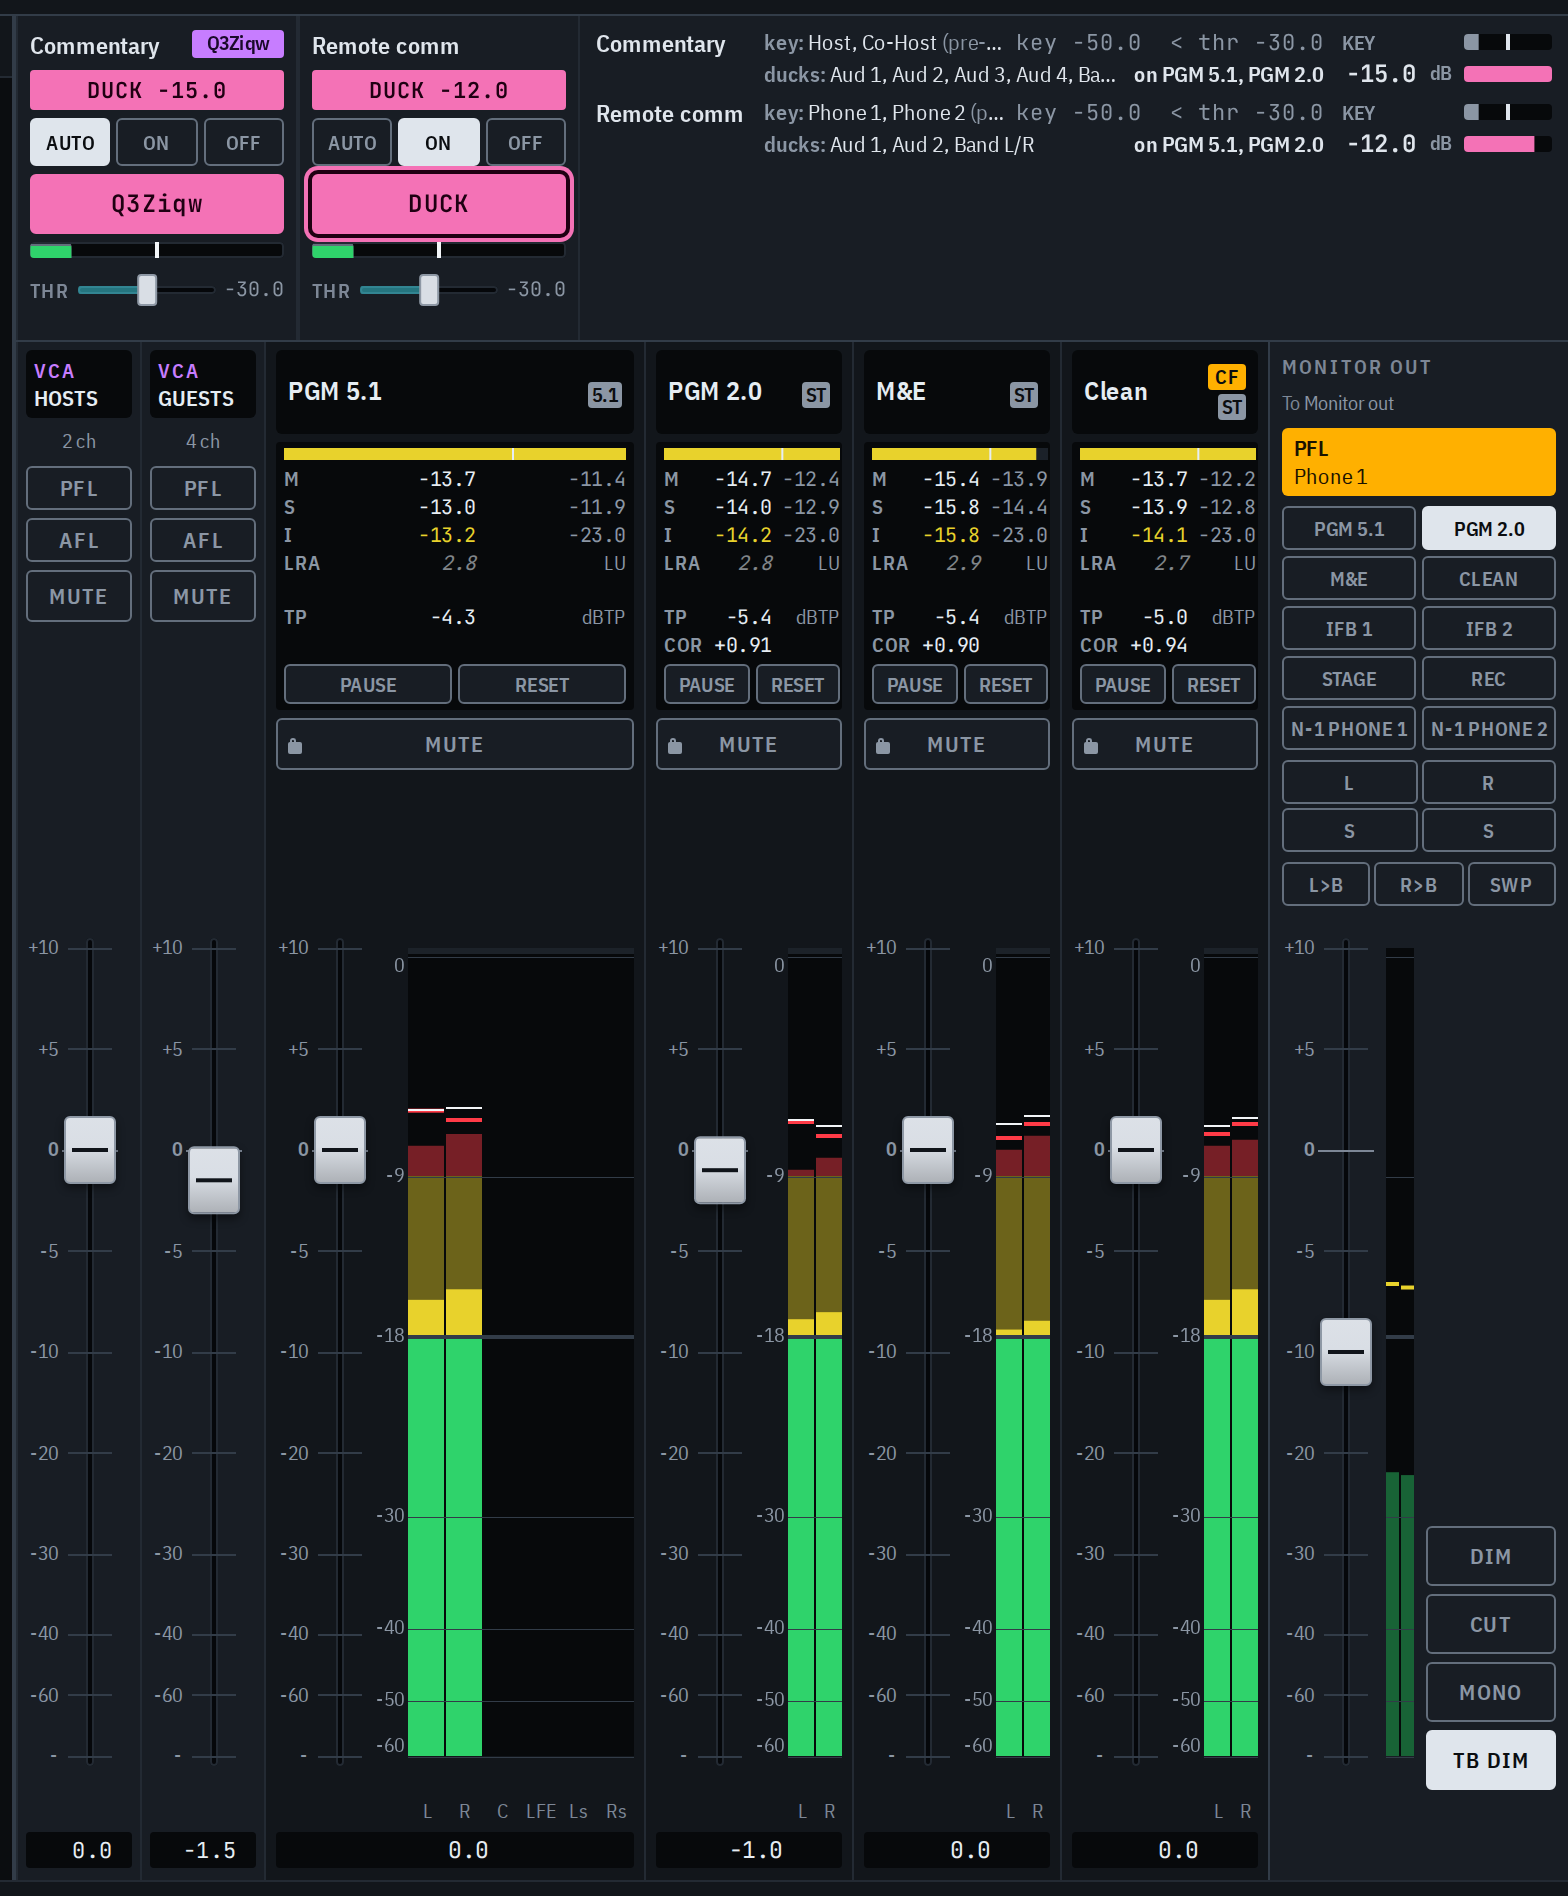
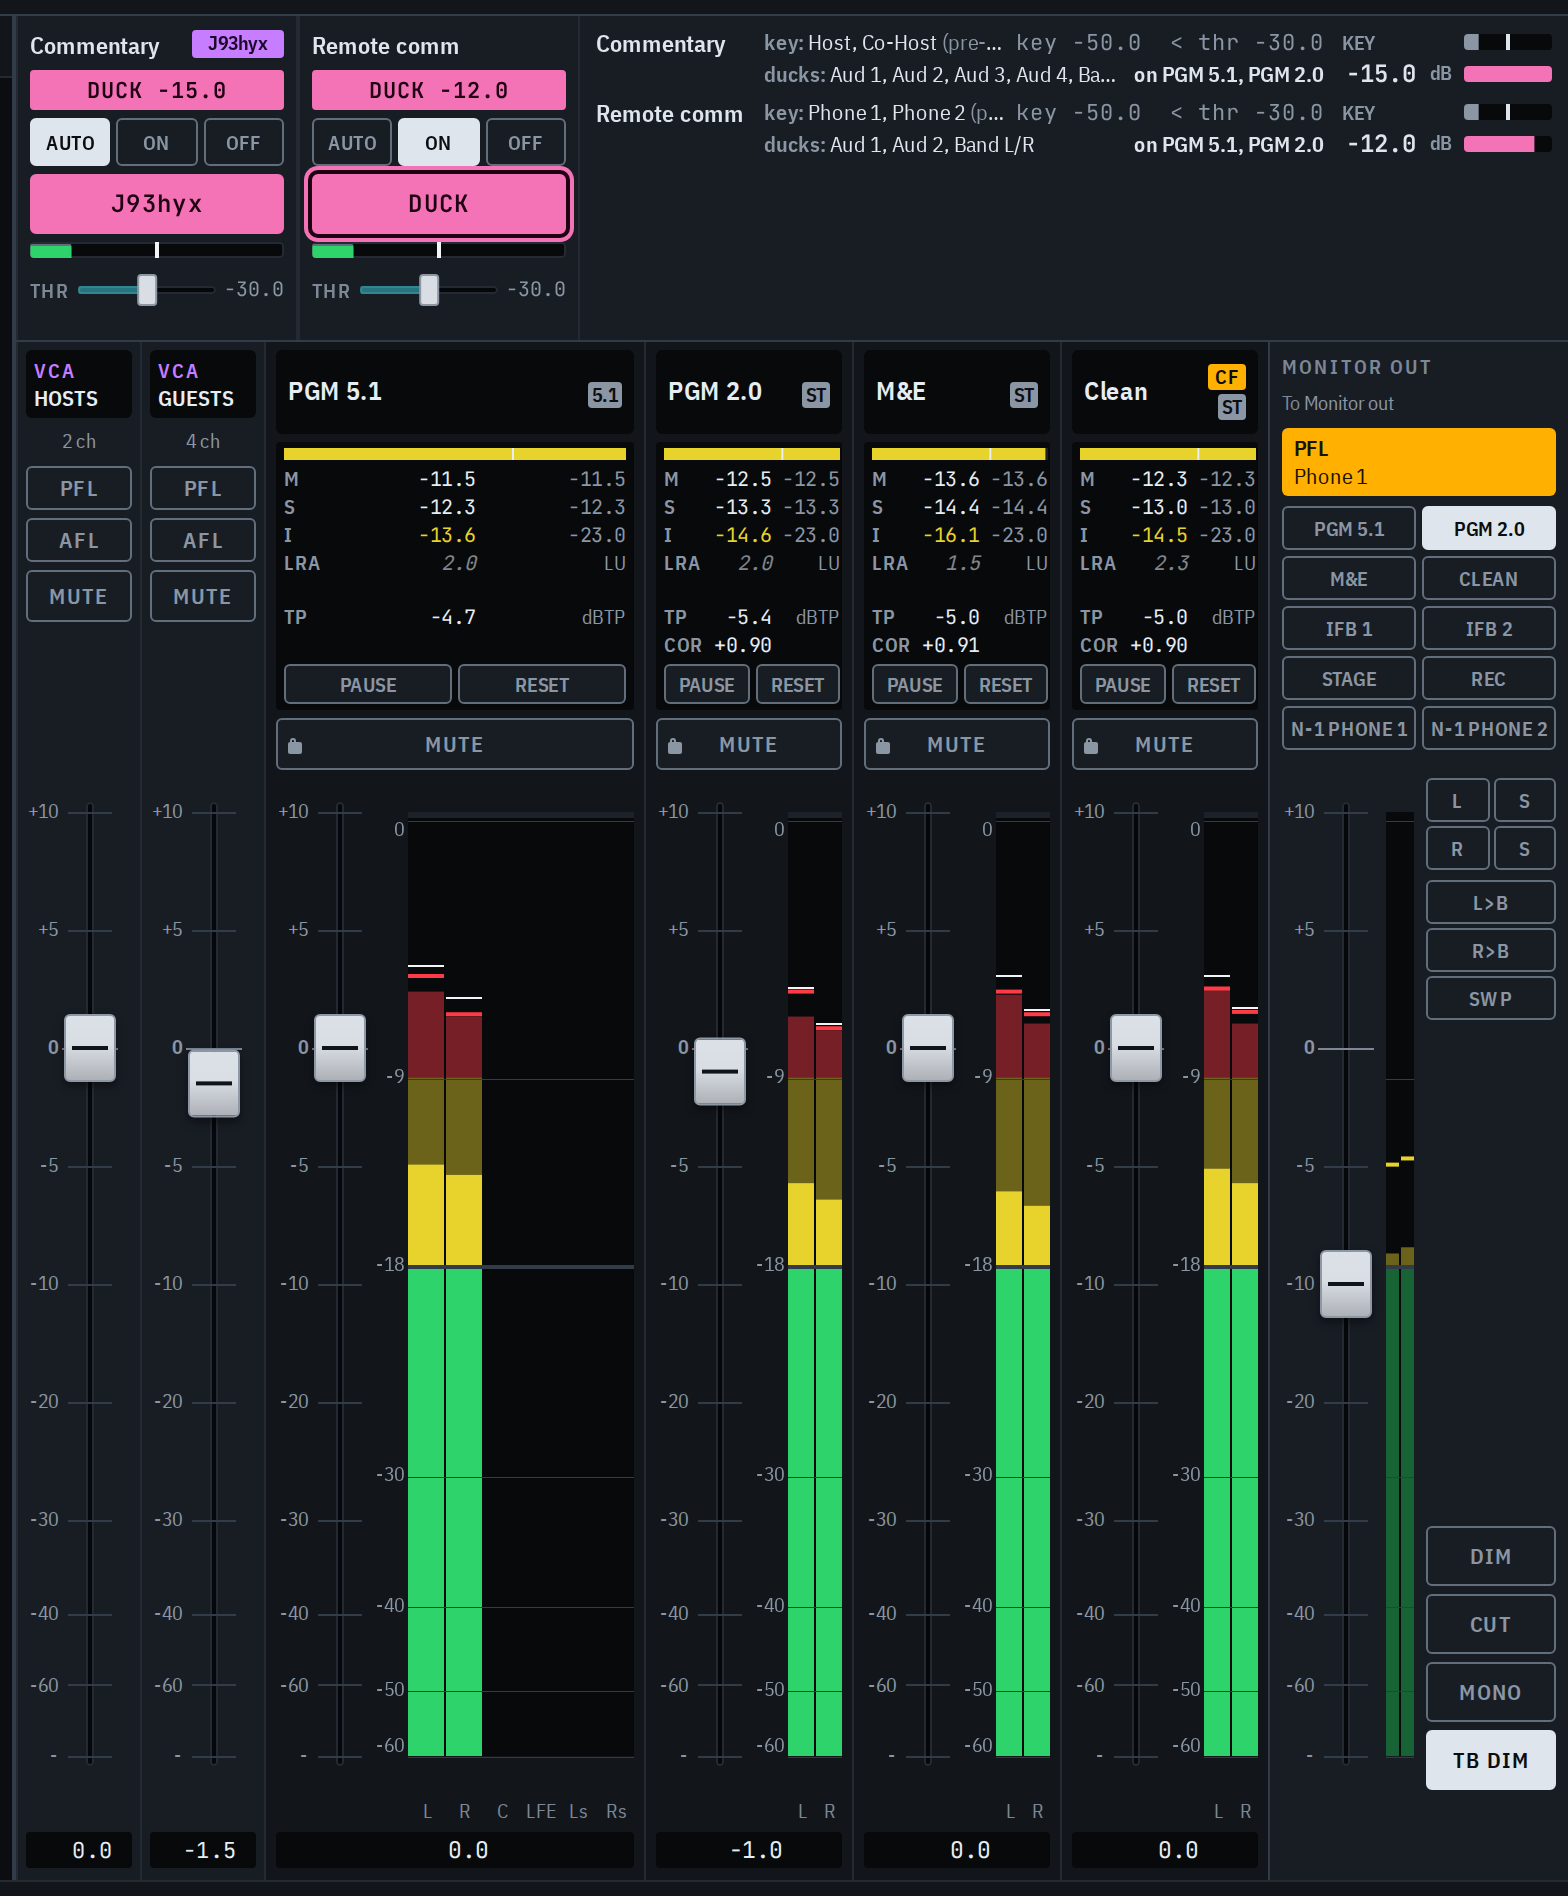
fix(web): keep master fader travel under compact monitor head
With every master's fader starting in one row, the tallest head above
a fader sets where all of them start. The monitor's source, speaker
and image keys stacked above its fader made its head the tallest, so
lining the faders up cost every bus and VCA fader on a 1600x1000
screen about 70 px of travel, down to 438 px.

The speaker mute and solo keys, one row per leg, and the image keys
now sit beside the monitor's fader above DIM, CUT, MONO and TB DIM,
and only the source keys stay above it. The monitor's head is no
taller than a bus's there, and every master fader has 506 px of
travel again. On a touch screen the faders gain 18 px, to 308 px.

diff --git a/web/src/components/MonitorSection.svelte b/web/src/components/MonitorSection.svelte
@@ -95,29 +95,6 @@
         >
       {/each}
     </div>
-    <div class="speakers" role="group" aria-label="Monitor speakers" style:grid-template-columns={`repeat(${legs.length}, minmax(0, 1fr))`}>
-      {#each legs as leg, i (i)}
-        <button {@attach pendingWrite(mixer, pointer('monitor', 'speakerMute', i))} class="key mute" aria-disabled={mixer.locked} aria-pressed={monitor.speakerMute[i]} aria-label={`Mute speaker ${leg}`} title={`Mute speaker ${leg}`} onclick={() => mixer.set(pointer('monitor', 'speakerMute', i), !monitor.speakerMute[i])}>{leg}</button>
-      {/each}
-      {#each legs as leg, i (i)}
-        <button {@attach pendingWrite(mixer, pointer('monitor', 'speakerSolo', i))} class="key solo" aria-disabled={mixer.locked} aria-pressed={monitor.speakerSolo[i]} aria-label={`Solo speaker ${leg}`} title={`Solo speaker ${leg}`} onclick={() => mixer.set(pointer('monitor', 'speakerSolo', i), !monitor.speakerSolo[i])}>S</button>
-      {/each}
-    </div>
-    {#if output?.layout === 'stereo'}
-      <div class="image" role="radiogroup" aria-label="Monitor image">
-        {#each IMAGES as im (im.id)}
-          <button {@attach pendingWrite(mixer, monitorPath('image'))}
-            class="key"
-            role="radio"
-            aria-disabled={mixer.locked}
-            aria-checked={monitor.image === im.id}
-            aria-label={im.label}
-            title={im.label}
-            onclick={() => mixer.set(monitorPath('image'), monitor.image === im.id ? 'normal' : im.id)}>{im.key}</button
-          >
-        {/each}
-      </div>
-    {/if}
   </div>
   <div class="body">
     <div class="f"><Fader path={monitorPath('level')} label="Monitor level" /></div>
@@ -132,25 +109,53 @@
         />
       {/if}
     </div>
-    <div class="flags">
-      <button {@attach pendingWrite(mixer, monitorPath('dim'))} class="key" aria-disabled={mixer.locked} aria-pressed={flag('dim')} onclick={() => mixer.set(monitorPath('dim'), !flag('dim'))}>DIM</button>
-      <button {@attach pendingWrite(mixer, monitorPath('cut'))} class="key mute" aria-disabled={mixer.locked} aria-pressed={flag('cut')} onclick={() => mixer.set(monitorPath('cut'), !flag('cut'))}>CUT</button>
-      <button {@attach pendingWrite(mixer, monitorPath('mono'))} class="key" aria-disabled={mixer.locked} aria-pressed={flag('mono')} onclick={() => mixer.set(monitorPath('mono'), !flag('mono'))}>MONO</button>
-      <button {@attach pendingWrite(mixer, monitorPath('talkbackDim'))}
-        class="key"
-        aria-disabled={mixer.locked}
-        aria-pressed={flag('talkbackDim')}
-        aria-label="Dim the monitor while talkback is active"
-        title="Dim the monitor while talkback is active"
-        onclick={() => mixer.set(monitorPath('talkbackDim'), !flag('talkbackDim'))}>TB DIM</button
-      >
+    <!-- Beside the fader, not above it: above it they would make the
+         monitor's head the tallest of the masters, and every master's
+         fader shorter. -->
+    <div class="side">
+      <div class="speakers" role="group" aria-label="Monitor speakers" style:grid-template-rows={`repeat(${legs.length}, auto)`}>
+        {#each legs as leg, i (i)}
+          <button {@attach pendingWrite(mixer, pointer('monitor', 'speakerMute', i))} class="key mute" aria-disabled={mixer.locked} aria-pressed={monitor.speakerMute[i]} aria-label={`Mute speaker ${leg}`} title={`Mute speaker ${leg}`} onclick={() => mixer.set(pointer('monitor', 'speakerMute', i), !monitor.speakerMute[i])}>{leg}</button>
+        {/each}
+        {#each legs as leg, i (i)}
+          <button {@attach pendingWrite(mixer, pointer('monitor', 'speakerSolo', i))} class="key solo" aria-disabled={mixer.locked} aria-pressed={monitor.speakerSolo[i]} aria-label={`Solo speaker ${leg}`} title={`Solo speaker ${leg}`} onclick={() => mixer.set(pointer('monitor', 'speakerSolo', i), !monitor.speakerSolo[i])}>S</button>
+        {/each}
+      </div>
+      {#if output?.layout === 'stereo'}
+        <div class="image" role="radiogroup" aria-label="Monitor image">
+          {#each IMAGES as im (im.id)}
+            <button {@attach pendingWrite(mixer, monitorPath('image'))}
+              class="key"
+              role="radio"
+              aria-disabled={mixer.locked}
+              aria-checked={monitor.image === im.id}
+              aria-label={im.label}
+              title={im.label}
+              onclick={() => mixer.set(monitorPath('image'), monitor.image === im.id ? 'normal' : im.id)}>{im.key}</button
+            >
+          {/each}
+        </div>
+      {/if}
+      <div class="flags">
+        <button {@attach pendingWrite(mixer, monitorPath('dim'))} class="key" aria-disabled={mixer.locked} aria-pressed={flag('dim')} onclick={() => mixer.set(monitorPath('dim'), !flag('dim'))}>DIM</button>
+        <button {@attach pendingWrite(mixer, monitorPath('cut'))} class="key mute" aria-disabled={mixer.locked} aria-pressed={flag('cut')} onclick={() => mixer.set(monitorPath('cut'), !flag('cut'))}>CUT</button>
+        <button {@attach pendingWrite(mixer, monitorPath('mono'))} class="key" aria-disabled={mixer.locked} aria-pressed={flag('mono')} onclick={() => mixer.set(monitorPath('mono'), !flag('mono'))}>MONO</button>
+        <button {@attach pendingWrite(mixer, monitorPath('talkbackDim'))}
+          class="key"
+          aria-disabled={mixer.locked}
+          aria-pressed={flag('talkbackDim')}
+          aria-label="Dim the monitor while talkback is active"
+          title="Dim the monitor while talkback is active"
+          onclick={() => mixer.set(monitorPath('talkbackDim'), !flag('talkbackDim'))}>TB DIM</button
+        >
+      </div>
     </div>
   </div>
 </section>
 
 <style>
-  /* Rows: the source, speaker and image keys above the fader, and the
-     fader with its meter and flags. */
+  /* Rows: the source keys above the fader, and the fader with its meter
+     and, beside them, the speaker, image and flag keys. */
   .monitor {
     width: 150px;
     flex: none;
@@ -219,13 +224,21 @@
     overflow: hidden;
     text-overflow: ellipsis;
   }
+  .side {
+    display: flex;
+    flex-direction: column;
+    gap: 5px;
+    min-width: 0;
+  }
   .speakers,
   .image {
     display: grid;
     gap: 2px;
   }
-  .image {
-    grid-template-columns: repeat(3, minmax(0, 1fr));
+  /* One row per leg, its mute beside its solo. */
+  .speakers {
+    grid-template-columns: repeat(2, minmax(0, 1fr));
+    grid-auto-flow: column;
   }
   .speakers .key,
   .image .key {
@@ -247,10 +260,10 @@
     padding: 17px 0;
   }
   .flags {
+    margin-top: auto;
     display: flex;
     flex-direction: column;
     gap: 4px;
-    justify-content: flex-end;
   }
   .flags .key {
     height: 30px;

diff --git a/web/tests/e2e/layout.spec.ts b/web/tests/e2e/layout.spec.ts
@@ -277,7 +277,7 @@ test('every fader fits its box, VCA masters included', async ({ page }) => {
   expect(over).toEqual([]);
 });
 
-test('every master fader has its track and scale at the same height', async ({ page }) => {
+test('every master fader has its track and scale at the same height', async ({ page }, info) => {
   await live(page);
   // Below 1400 px the masters lie over the strips while MASTERS is lit.
   const masters = page.getByRole('button', { name: 'MASTERS' });
@@ -308,6 +308,11 @@ test('every master fader has its track and scale at the same height', async ({ p
     }
   }
   expect(off).toEqual([]);
+  // Lined up without giving up travel: where the masters sit beside the
+  // strips, no head above a fader takes from every fader's length.
+  if (info.project.name === 'desktop') {
+    expect(faders.filter((f) => f.bottom - f.top < 480).map((f) => `${f.label}: ${(f.bottom - f.top).toFixed(1)}`)).toEqual([]);
+  }
 });
 
 test('every value field of a processing panel shows its whole value', async ({ page, request }) => {
